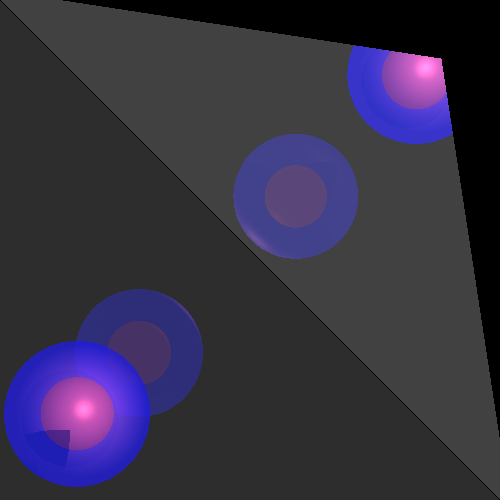
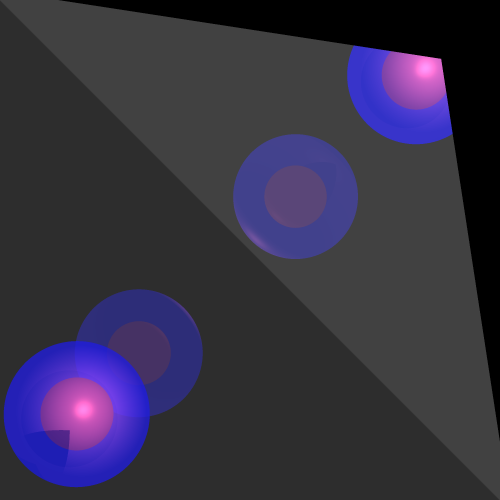
Antialiasing

Changed region(s): [[0.99, 0.99, 1.0, 1.0]]

diff --git a/src/renderer/Camera.java b/src/renderer/Camera.java
@@ -53,8 +53,11 @@ public class Camera {
      *
      */
     private RayTracerBase rayTracerBase;
-
-    private int size=2;
+    /**
+     * A field that helps calculate how many rays we want to have
+     */
+    //לבדוק רנדומלי או שאני מחליטה
+    private int size=4;
 
 
     // ***************** Constructors ********************** //
@@ -215,9 +218,17 @@ public class Camera {
         return new Ray(P0, Pij.subtract(P0));
     }
 
-    public Point PointMiddle(int nX, int nY, int j, int i){//שינוי שם
-        Point Pc = P0.add(Vto.scale(distance));//מרכז הנקודה של  מישור התצןגה
-        double Rx= width/(double)nX;// גודל "וה" של הפיקסל (יחיד(
+    /**
+     *A function that calculates the midpoint with a pixel with a viewing plane and a camera
+     * @param nX-size of view plan
+     * @param nY-size of view plan
+     * @param j-  Pixel     Location
+     * @param i- Pixel     Location
+     * @return  Point Middle
+     */
+    public Point PointMiddle(int nX, int nY, int j, int i){
+        Point Pc = P0.add(Vto.scale(distance));
+        double Rx= width/(double)nX;
         double Ry=height/(double)nY;
         double Yi = (-(i - ((double)nY - 1) / 2d) * Ry);
         double Xj = ((j - ((double)nX - 1) / 2d) * Rx) ;
@@ -230,25 +241,42 @@ public class Camera {
         }
         return Pij;
     }
-//מחזירה את כל הקרניים באותי הפיסקל
-    public List<Ray> constructRayS(int nX, int nY, int j, int i){
 
-        Point pointCnetr=PointMiddle(nX,nY,j,i);//אנחנו רוצים את נקודת אמצע של פיקסל ונעשה את זה לפני הנוסחה שנלמדה בכיתה
+    /**Antialiasing
+     *Function for calculating that a list of rays intersects the pixel
+     * @param nX-size of view plan
+     * @param nY-size of view plan
+     * @param j-  Pixel     Location
+     * @param i- Pixel     Location
+     * @return List of rays cut
+     */
+        public List<Ray> constructRayS(int nX, int nY, int j, int i){
+
+        Point pointCnetr=PointMiddle(nX,nY,j,i);
         List <Ray> rayList=new LinkedList<>();
         rayList.add(new Ray(P0, pointCnetr.subtract(P0)));
         double Rx= ((width)/nX)/(double) size;
         double Ry=((height)/nY)/(double) size;
         double x=0;
         double y=0;
-        //כמות הפעמים שאנחנו רוצים שהוא ירוץ ויעשה לנו קרניים
-        //יצירת קרניים בתוך הפיסקל
+
         for (int r=0;r<size;r++){
             //y = -(r - (size - 1) / 2d) * Ry;
-            y=r>size/2?(size/2)+(size- r)*Ry:(size/2)-r*Ry;
+            if(r>size/2){
+               y= (size/2)+(size- r)*Ry;//
+            }//Variable to move lengthwise
+            else {
+                y=(size/2)-r*Ry;
+            }
+         //   y=r>size/2?(size/2)+(size- r)*Ry:(size/2)-r*Ry;
             for (int c=0;c<size;c++){
-                //אולי צריך פה בכלל רנדומלי במיקומים
                 x=c>size/2?(size/2)+(size- c)*Rx:(size/2)-c*Rx;
-
+                if(c>size/2){
+                    x= (size/2)+(size- c)*Rx;
+                }//Variable to move in the width direction
+                else {
+                    x=(size/2)-c*Rx;
+                }
              //   x = (c - (size - 1) / 2d) * Rx;
                 Point Pij = pointCnetr;
                 if (isZero(x) && isZero(y)) {
@@ -317,29 +345,28 @@ public class Camera {
         }
     }
 
-    /**
-     * Take imageWriter and call func writePixel
-     * @param Nx
+    /** Antialiasing
+     Returns the color of a pixel before the average color and also with more rays cut in the pixel     * @param Nx
      * @param Ny
      * @param i
      * @param j
      */
     private void castRay(int Nx, int Ny, int j, int i) {
-     if (size==1){
+     if (size==1){//If we have one fund left
          imageWriter.writePixel(j, i,rayTracerBase.traceRay(constructRay(Nx, Ny, j, i)));
      }
      else {
-        int a=0;
-        int b=0;
-        int c=0;
-        var rays=constructRayS(Nx, Ny, j, i);
+        int red=0;
+        int green=0;
+        int blue=0;
+        var rays=constructRayS(Nx, Ny, j, i);//The list of rays cuts the pixel
         Color colors=null;
-        for (var ray: rays){
+        for (var ray: rays){//Insert a color into the appropriate variable
            Color temp=rayTracerBase.traceRay(ray);
-           a+=temp.getColor().getRed();
-           b+=temp.getColor().getGreen();
-           c+=temp.getColor().getBlue();
+            red+=temp.getColor().getRed();
+            green+=temp.getColor().getGreen();
+            blue+=temp.getColor().getBlue();
         }
-        colors=new Color(a/(rays.size()),b/(rays.size()),c/(rays.size()));
+        colors=new Color(red/(rays.size()),green/(rays.size()),blue/(rays.size()));//Calculate the color mean
         imageWriter.writePixel(j, i,colors);
     }}}
